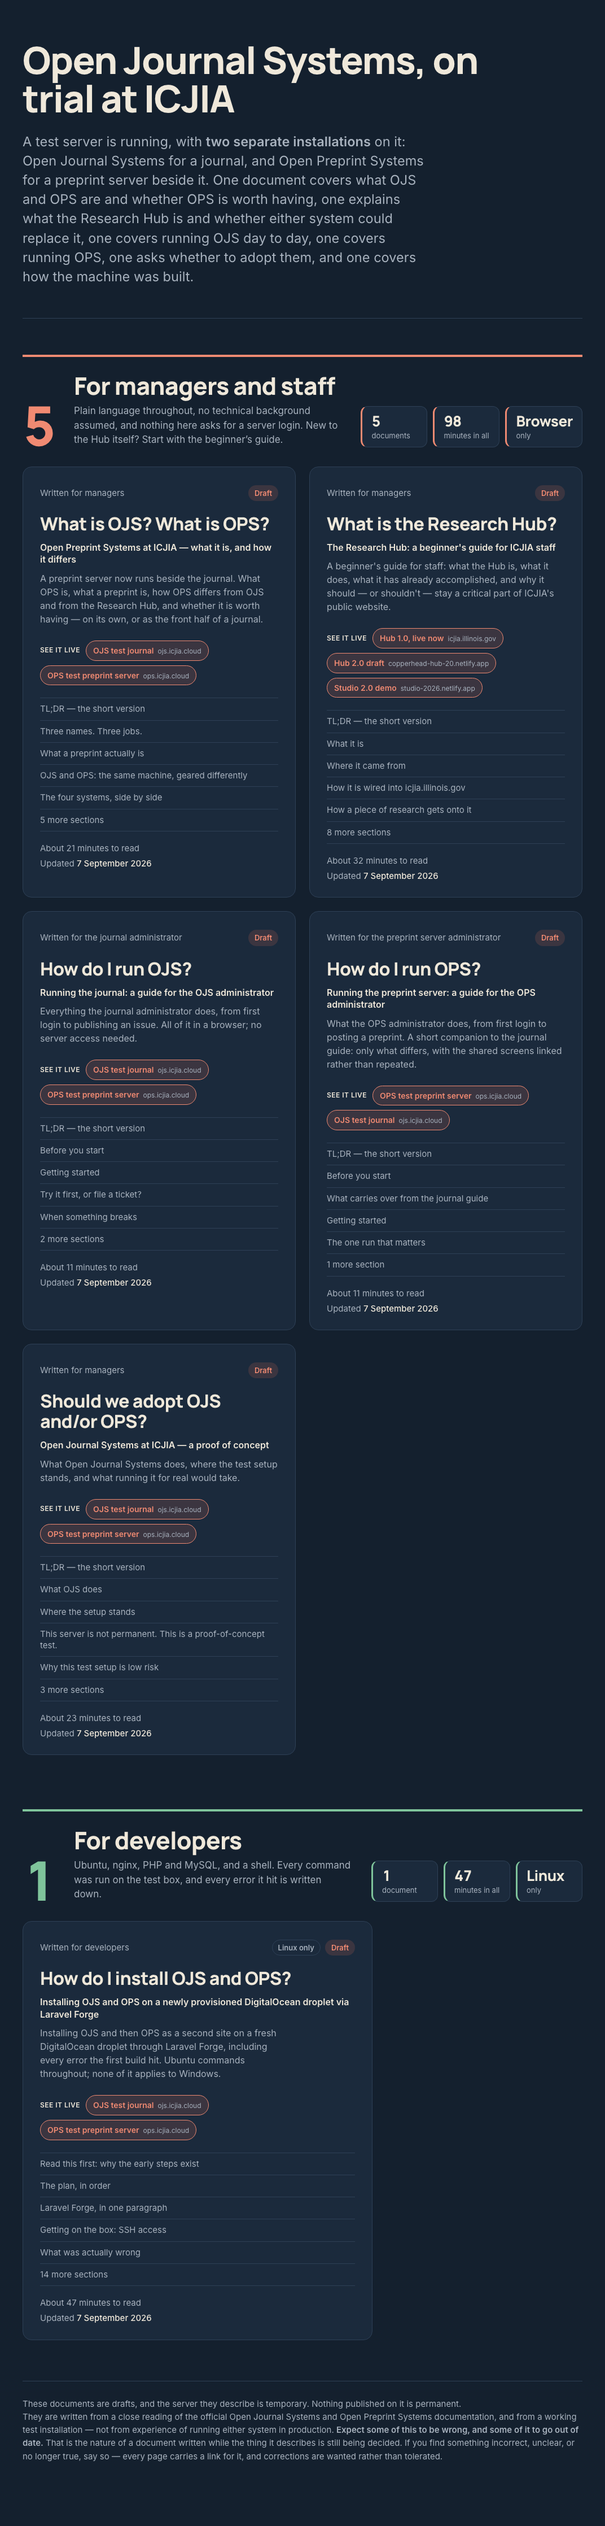
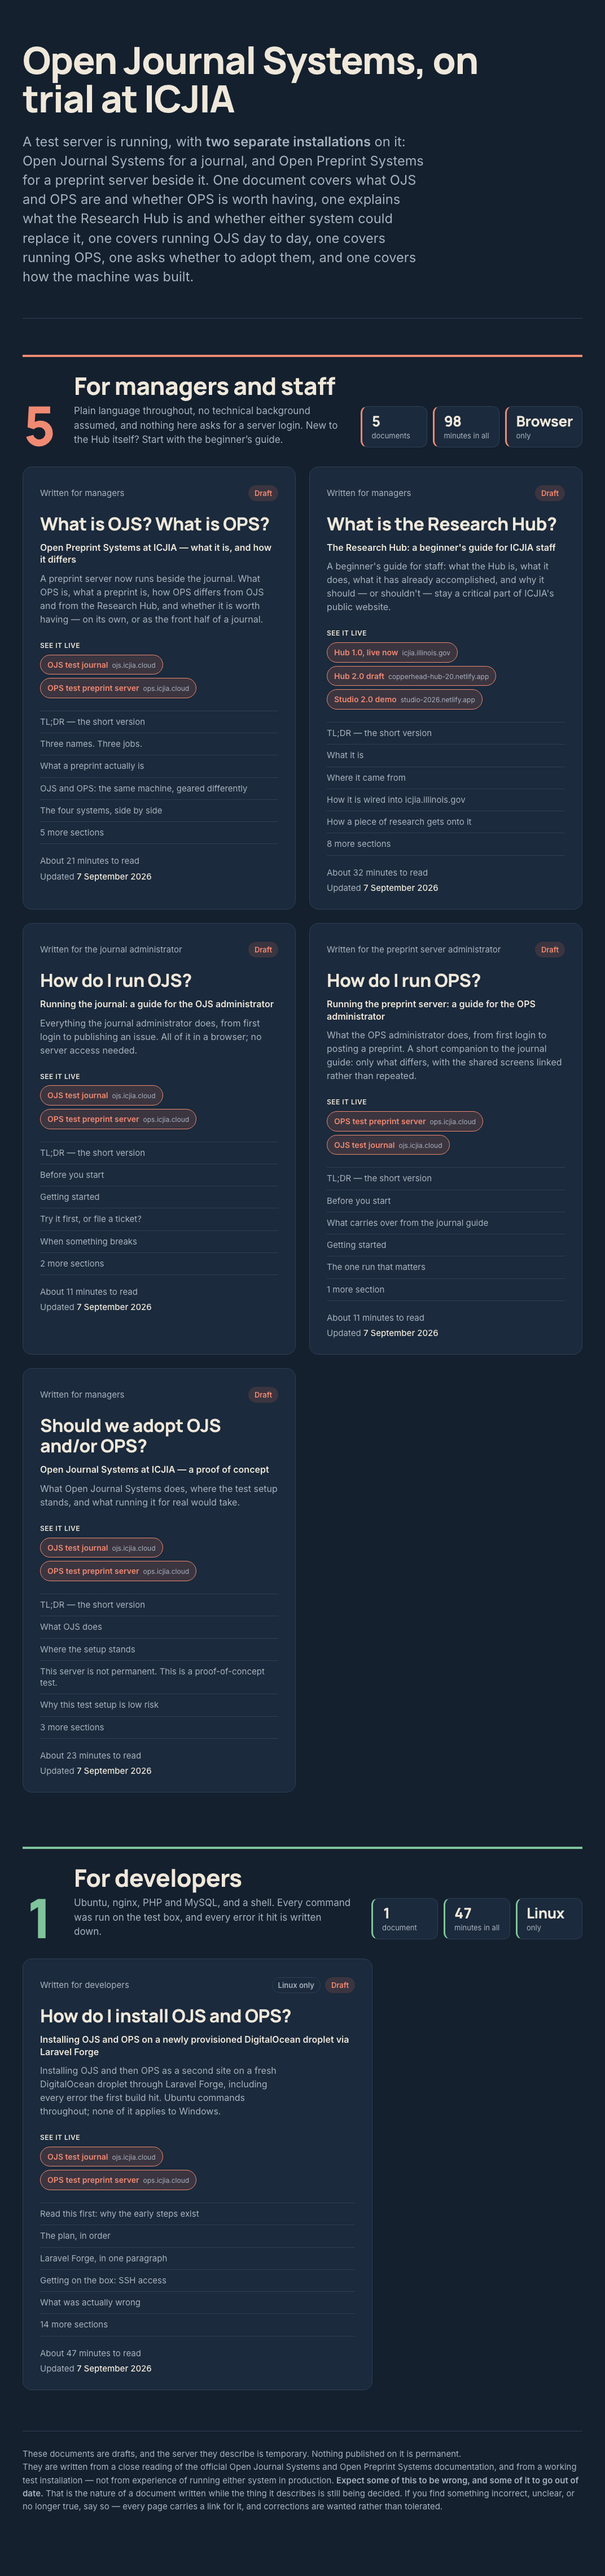
Release 1.19.1: stack the "See it live" links
Laid out in a row, the "See it live" chips wrapped unevenly and the names and
hostnames were hard to read. They are now one per line, left-aligned, on the
cards and on every page's header box, with the note beneath. Screenshots
recaptured.

Verified: npm run check, build and 211 tests green.

diff --git a/src/documents/forge-droplet-runbook.html b/src/documents/forge-droplet-runbook.html
@@ -36,13 +36,13 @@
   .updated .lab{font-size:15px;color:var(--paper-dim)}
   .updated time{font-family:"Manrope","Inter",system-ui,sans-serif;font-weight:800;font-size:20px;letter-spacing:-.01em;color:var(--pencil)}
   /* see it live */
-  .see{display:flex;flex-wrap:wrap;align-items:center;gap:12px 14px;margin:22px 0 0;padding:18px 22px;border-radius:14px;border:1px solid var(--rule);background:var(--ink-2);font-size:17px;line-height:1.4;color:var(--paper-dim);max-width:none}
+  .see{display:grid;justify-items:start;gap:10px;margin:22px 0 0;padding:18px 22px;border-radius:14px;border:1px solid var(--rule);background:var(--ink-2);font-size:17px;line-height:1.4;color:var(--paper-dim);max-width:none}
   .see .k{font-weight:700;color:var(--paper)}
   .see a{display:inline-flex;align-items:baseline;gap:8px;padding:8px 14px;border-radius:999px;border:1px solid var(--pencil);background:var(--pencil-soft);color:var(--pencil);font-weight:600;text-decoration:none;white-space:nowrap}
   .see a small{font-weight:400;font-size:.85em;color:var(--paper-dim)}
   .see a:hover,.see a:focus-visible{background:var(--pencil);color:var(--ink)}
   .see a:hover small,.see a:focus-visible small{color:var(--ink)}
-  .see .why{flex-basis:100%;font-size:15px;margin:0}
+  .see .why{font-size:15px;margin:2px 0 0}
   .see .why a{display:inline;padding:0;border:0;background:none;color:var(--pencil);font-weight:500;text-decoration:underline;white-space:normal}
   .meta{display:grid;grid-template-columns:repeat(4,1fr);border-top:1px solid var(--rule);border-bottom:1px solid var(--rule);margin:40px 0 0}
   .meta div{padding:22px 20px 22px 0;font-size:15px;color:var(--paper-dim)}

diff --git a/src/documents/ojs-administrator-guide.html b/src/documents/ojs-administrator-guide.html
@@ -36,13 +36,13 @@
   .updated .lab{font-size:15px;color:var(--paper-dim)}
   .updated time{font-family:"Manrope","Inter",system-ui,sans-serif;font-weight:800;font-size:20px;letter-spacing:-.01em;color:var(--pencil)}
   /* see it live */
-  .see{display:flex;flex-wrap:wrap;align-items:center;gap:12px 14px;margin:22px 0 0;padding:18px 22px;border-radius:14px;border:1px solid var(--rule);background:var(--ink-2);font-size:17px;line-height:1.4;color:var(--paper-dim);max-width:none}
+  .see{display:grid;justify-items:start;gap:10px;margin:22px 0 0;padding:18px 22px;border-radius:14px;border:1px solid var(--rule);background:var(--ink-2);font-size:17px;line-height:1.4;color:var(--paper-dim);max-width:none}
   .see .k{font-weight:700;color:var(--paper)}
   .see a{display:inline-flex;align-items:baseline;gap:8px;padding:8px 14px;border-radius:999px;border:1px solid var(--pencil);background:var(--pencil-soft);color:var(--pencil);font-weight:600;text-decoration:none;white-space:nowrap}
   .see a small{font-weight:400;font-size:.85em;color:var(--paper-dim)}
   .see a:hover,.see a:focus-visible{background:var(--pencil);color:var(--ink)}
   .see a:hover small,.see a:focus-visible small{color:var(--ink)}
-  .see .why{flex-basis:100%;font-size:15px;margin:0}
+  .see .why{font-size:15px;margin:2px 0 0}
   .see .why a{display:inline;padding:0;border:0;background:none;color:var(--pencil);font-weight:500;text-decoration:underline;white-space:normal}
   .plain{
     margin-top:44px;padding:30px 34px;border-left:6px solid var(--pencil);

diff --git a/src/documents/ojs-proof-of-concept.html b/src/documents/ojs-proof-of-concept.html
@@ -36,13 +36,13 @@
   .updated .lab{font-size:15px;color:var(--paper-dim)}
   .updated time{font-family:"Manrope","Inter",system-ui,sans-serif;font-weight:800;font-size:20px;letter-spacing:-.01em;color:var(--pencil)}
   /* see it live */
-  .see{display:flex;flex-wrap:wrap;align-items:center;gap:12px 14px;margin:22px 0 0;padding:18px 22px;border-radius:14px;border:1px solid var(--rule);background:var(--ink-2);font-size:17px;line-height:1.4;color:var(--paper-dim);max-width:none}
+  .see{display:grid;justify-items:start;gap:10px;margin:22px 0 0;padding:18px 22px;border-radius:14px;border:1px solid var(--rule);background:var(--ink-2);font-size:17px;line-height:1.4;color:var(--paper-dim);max-width:none}
   .see .k{font-weight:700;color:var(--paper)}
   .see a{display:inline-flex;align-items:baseline;gap:8px;padding:8px 14px;border-radius:999px;border:1px solid var(--pencil);background:var(--pencil-soft);color:var(--pencil);font-weight:600;text-decoration:none;white-space:nowrap}
   .see a small{font-weight:400;font-size:.85em;color:var(--paper-dim)}
   .see a:hover,.see a:focus-visible{background:var(--pencil);color:var(--ink)}
   .see a:hover small,.see a:focus-visible small{color:var(--ink)}
-  .see .why{flex-basis:100%;font-size:15px;margin:0}
+  .see .why{font-size:15px;margin:2px 0 0}
   .see .why a{display:inline;padding:0;border:0;background:none;color:var(--pencil);font-weight:500;text-decoration:underline;white-space:normal}
   .plain{
     margin-top:44px;padding:30px 34px;border-left:6px solid var(--pencil);

diff --git a/src/documents/ops-administrator-guide.html b/src/documents/ops-administrator-guide.html
@@ -36,13 +36,13 @@
   .updated .lab{font-size:15px;color:var(--paper-dim)}
   .updated time{font-family:"Manrope","Inter",system-ui,sans-serif;font-weight:800;font-size:20px;letter-spacing:-.01em;color:var(--pencil)}
   /* see it live */
-  .see{display:flex;flex-wrap:wrap;align-items:center;gap:12px 14px;margin:22px 0 0;padding:18px 22px;border-radius:14px;border:1px solid var(--rule);background:var(--ink-2);font-size:17px;line-height:1.4;color:var(--paper-dim);max-width:none}
+  .see{display:grid;justify-items:start;gap:10px;margin:22px 0 0;padding:18px 22px;border-radius:14px;border:1px solid var(--rule);background:var(--ink-2);font-size:17px;line-height:1.4;color:var(--paper-dim);max-width:none}
   .see .k{font-weight:700;color:var(--paper)}
   .see a{display:inline-flex;align-items:baseline;gap:8px;padding:8px 14px;border-radius:999px;border:1px solid var(--pencil);background:var(--pencil-soft);color:var(--pencil);font-weight:600;text-decoration:none;white-space:nowrap}
   .see a small{font-weight:400;font-size:.85em;color:var(--paper-dim)}
   .see a:hover,.see a:focus-visible{background:var(--pencil);color:var(--ink)}
   .see a:hover small,.see a:focus-visible small{color:var(--ink)}
-  .see .why{flex-basis:100%;font-size:15px;margin:0}
+  .see .why{font-size:15px;margin:2px 0 0}
   .see .why a{display:inline;padding:0;border:0;background:none;color:var(--pencil);font-weight:500;text-decoration:underline;white-space:normal}
   .plain{
     margin-top:44px;padding:30px 34px;border-left:6px solid var(--pencil);

diff --git a/src/documents/what-is-the-research-hub.html b/src/documents/what-is-the-research-hub.html
@@ -35,13 +35,13 @@
   .updated .lab{font-size:15px;color:var(--paper-dim)}
   .updated time{font-family:"Manrope","Inter",system-ui,sans-serif;font-weight:800;font-size:20px;letter-spacing:-.01em;color:var(--pencil)}
   /* see it live */
-  .see{display:flex;flex-wrap:wrap;align-items:center;gap:12px 14px;margin:22px 0 0;padding:18px 22px;border-radius:14px;border:1px solid var(--rule);background:var(--ink-2);font-size:17px;line-height:1.4;color:var(--paper-dim);max-width:none}
+  .see{display:grid;justify-items:start;gap:10px;margin:22px 0 0;padding:18px 22px;border-radius:14px;border:1px solid var(--rule);background:var(--ink-2);font-size:17px;line-height:1.4;color:var(--paper-dim);max-width:none}
   .see .k{font-weight:700;color:var(--paper)}
   .see a{display:inline-flex;align-items:baseline;gap:8px;padding:8px 14px;border-radius:999px;border:1px solid var(--pencil);background:var(--pencil-soft);color:var(--pencil);font-weight:600;text-decoration:none;white-space:nowrap}
   .see a small{font-weight:400;font-size:.85em;color:var(--paper-dim)}
   .see a:hover,.see a:focus-visible{background:var(--pencil);color:var(--ink)}
   .see a:hover small,.see a:focus-visible small{color:var(--ink)}
-  .see .why{flex-basis:100%;font-size:15px;margin:0}
+  .see .why{font-size:15px;margin:2px 0 0}
   .see .why a{display:inline;padding:0;border:0;background:none;color:var(--pencil);font-weight:500;text-decoration:underline;white-space:normal}
   .plain{
     margin-top:44px;padding:30px 34px;border-left:6px solid var(--pencil);

diff --git a/src/documents/ops-preprint-server.html b/src/documents/ops-preprint-server.html
@@ -35,13 +35,13 @@
   .updated .lab{font-size:15px;color:var(--paper-dim)}
   .updated time{font-family:"Manrope","Inter",system-ui,sans-serif;font-weight:800;font-size:20px;letter-spacing:-.01em;color:var(--pencil)}
   /* see it live */
-  .see{display:flex;flex-wrap:wrap;align-items:center;gap:12px 14px;margin:22px 0 0;padding:18px 22px;border-radius:14px;border:1px solid var(--rule);background:var(--ink-2);font-size:17px;line-height:1.4;color:var(--paper-dim);max-width:none}
+  .see{display:grid;justify-items:start;gap:10px;margin:22px 0 0;padding:18px 22px;border-radius:14px;border:1px solid var(--rule);background:var(--ink-2);font-size:17px;line-height:1.4;color:var(--paper-dim);max-width:none}
   .see .k{font-weight:700;color:var(--paper)}
   .see a{display:inline-flex;align-items:baseline;gap:8px;padding:8px 14px;border-radius:999px;border:1px solid var(--pencil);background:var(--pencil-soft);color:var(--pencil);font-weight:600;text-decoration:none;white-space:nowrap}
   .see a small{font-weight:400;font-size:.85em;color:var(--paper-dim)}
   .see a:hover,.see a:focus-visible{background:var(--pencil);color:var(--ink)}
   .see a:hover small,.see a:focus-visible small{color:var(--ink)}
-  .see .why{flex-basis:100%;font-size:15px;margin:0}
+  .see .why{font-size:15px;margin:2px 0 0}
   .see .why a{display:inline;padding:0;border:0;background:none;color:var(--pencil);font-weight:500;text-decoration:underline;white-space:normal}
 
   .plain{

diff --git a/src/styles/portal.css b/src/styles/portal.css
@@ -357,10 +357,9 @@ body {
 .live {
   position: relative;
   z-index: 1;
-  display: flex;
-  flex-wrap: wrap;
-  align-items: center;
-  gap: 8px 10px;
+  display: grid;
+  justify-items: start;
+  gap: 6px;
   margin: 0 0 22px;
   font-size: 14px;
 }

diff --git a/CHANGELOG.md b/CHANGELOG.md
@@ -5,6 +5,14 @@ All notable changes to this project are documented here.
 The format follows [Keep a Changelog](https://keepachangelog.com/en/1.1.0/),
 and this project adheres to [Semantic Versioning](https://semver.org/spec/v2.0.0.html).
 
+## [1.19.1] - 2026-09-07
+
+### Fixed
+
+- **The "See it live" links are stacked, one per line, left-aligned**, on the
+  cards and on the pages. Laid out in a row they wrapped unevenly and the names
+  and hostnames were hard to read.
+
 ## [1.19.0] - 2026-09-07
 
 ### Added
@@ -1040,6 +1048,7 @@ Title II / IITAA review would expect.
 The contrast, heading-order and personal-name changes were made in the source
 documents, so the standalone files carry them too.
 
+[1.19.1]: https://github.com/ICJIA/icjia-ojs-docs/releases/tag/v1.19.1
 [1.19.0]: https://github.com/ICJIA/icjia-ojs-docs/releases/tag/v1.19.0
 [1.18.0]: https://github.com/ICJIA/icjia-ojs-docs/releases/tag/v1.18.0
 [1.17.0]: https://github.com/ICJIA/icjia-ojs-docs/releases/tag/v1.17.0
